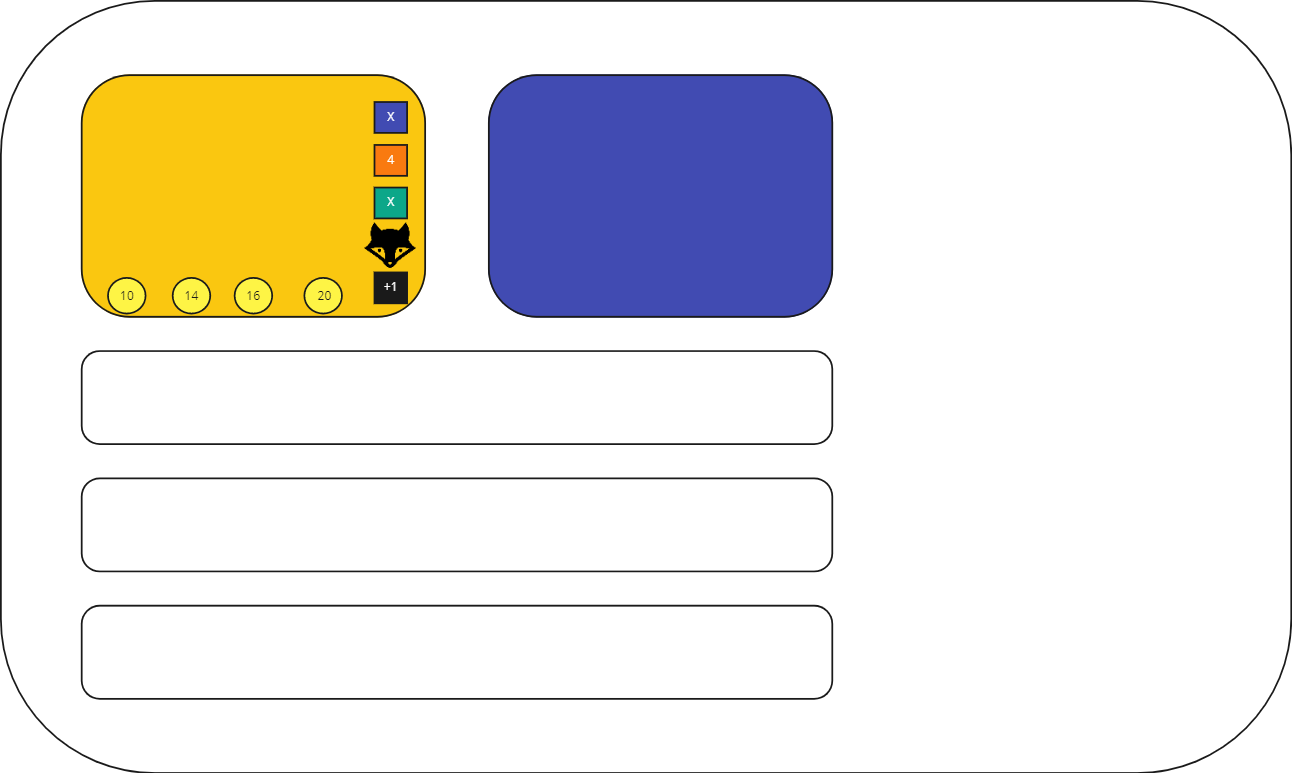
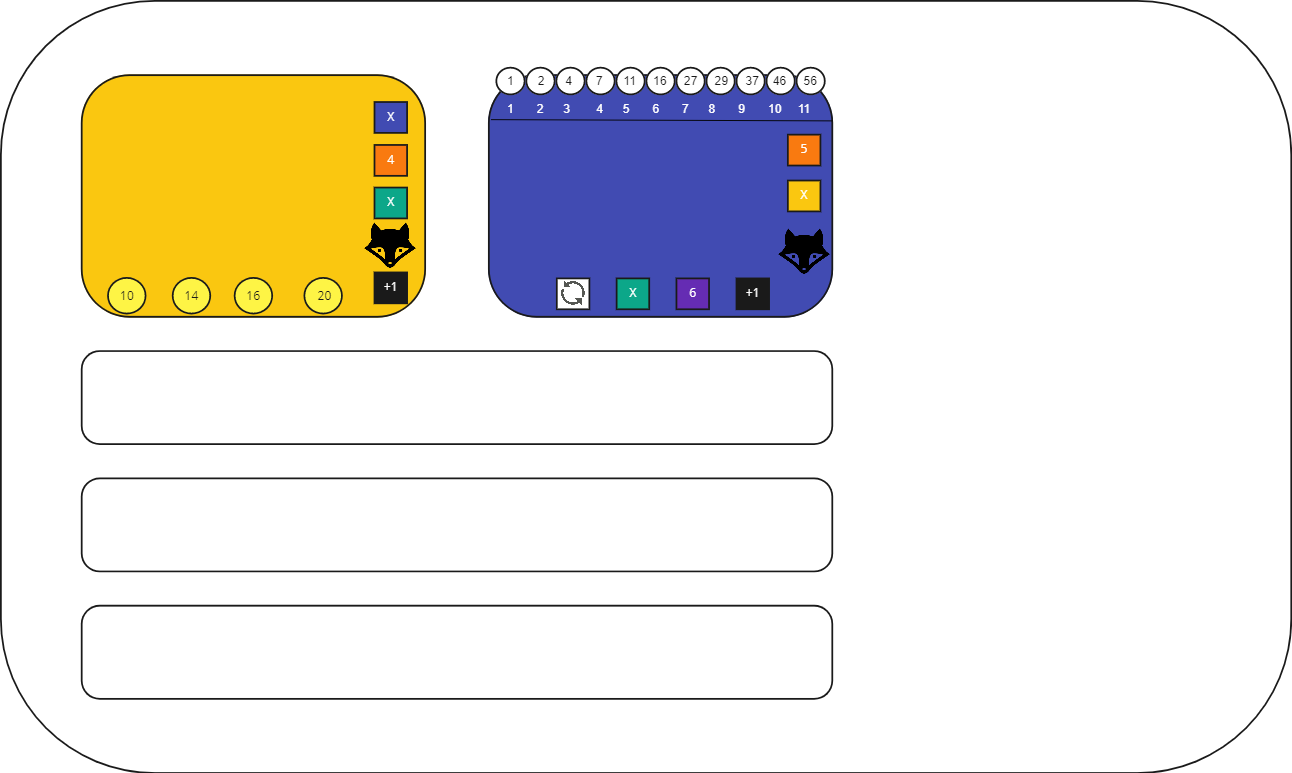
gui/temp

Changed region(s): [[0.4334, 0.1552, 0.6502, 0.4036], [0.3715, 0.0931, 0.6502, 0.1552]]

diff --git a/src/ClientGUI.java b/src/ClientGUI.java
@@ -1,68 +1,144 @@
 import javax.swing.*;
 import java.awt.*;
-import java.awt.event.ActionEvent;
-import java.awt.event.ActionListener;
+import java.awt.Color;
 
 public class ClientGUI {
     JFrame f=new JFrame();//creating instance of JFrame
     JLayeredPane lp = new JLayeredPane();
-    JButton b=new JButton(); //creating instance of JButton
-    JLabel flaga = new JLabel();
-    JButton b2 = new JButton();
-    JButton b3 = new JButton();
-    JButton b4 = new JButton();
-    JButton b5 = new JButton();
-    JButton b6 = new JButton();
-    JButton b7 = new JButton();
-    JLabel x = new JLabel();
+    JButton y00 =new JButton(); //creating instance of JButton
+    JButton y01 = new JButton();
+    JButton y02 = new JButton();
+    JButton y10 = new JButton();
+    JButton y20 = new JButton();
+    JButton y30 = new JButton();
+    JButton y03 = new JButton();
+    JButton y11 = new JButton();
+    JButton y12 = new JButton();
+    JButton y13 = new JButton();
+    JButton y21 = new JButton();
+    JButton y22 = new JButton();
+    JButton y23 = new JButton();
+    JButton y31 = new JButton();
+    JButton y32 = new JButton();
+    JButton y33 = new JButton();
+    JButton b01 = new JButton();
+    JButton b02 = new JButton();
+    JButton b03 = new JButton();
+    JButton b10 = new JButton();
+    JButton b11 = new JButton();
+    JButton b12 = new JButton();
+    JButton b13 = new JButton();
+    JButton b20 = new JButton();
+    JButton b21 = new JButton();
+    JButton b22 = new JButton();
+    JButton b23 = new JButton();
+
     public ClientGUI(){
 
         f.setDefaultCloseOperation(JFrame.EXIT_ON_CLOSE);
         f.setSize(new Dimension(1920,1080));//400 width and 500 height
 
-        b = new JButton("2");
-        b.setBounds(110,115,41, 41);//x-axis, y-axis, width, height
-        lp.add(b, 2);//adding button in JFrame
-        b.setVisible(true);
+        y00 = new JButton("3");
+        y00.setBounds(110,115,41, 41);//x-axis, y-axis, width, height
+        lp.add(y00, 2);//adding button in JFrame
+        y00.setVisible(true);
 
 
-        b2 = new JButton("3");
-        b2.setBounds(170,115,41, 41);//x-axis, y-axis, width, height
-        b2.setOpaque(true);
-        lp.add(b2, 2);//adding button in JFrame
-        b2.setVisible(true);
+        y01 = new JButton("2");
+        y01.setBounds(110,165,41, 41);//x-axis, y-axis, width, height
+        lp.add(y01, 2);//adding button in JFrame
+        y01.setVisible(true);
 
-        b3 = new JButton("3");
-        b3.setBounds(240,115,41, 41);//x-axis, y-axis, width, height
-        lp.add(b3, 2);//adding button in JFrame
-        b3.setVisible(true);
+        y02 = new JButton("1");
+        y02.setBounds(110,215,41, 41);//x-axis, y-axis, width, height
+        lp.add(y02, 2);//adding button in JFrame
+        y02.setVisible(true);
 
-        b4 = new JButton("3");
-        b4.setBounds(310,120,41, 41);//x-axis, y-axis, width, height
-        lp.add(b4, 2);//adding button in JFrame
-        b4.setVisible(true);
+        y10 = new JButton("6");
+        y10.setBounds(175,115,41, 41);//x-axis, y-axis, width, height
+        lp.add(y10, 2);//adding button in JFrame
+        y10.setVisible(true);
 
-        b5 = new JButton("2");
-        b5.setBounds(110,165,41, 41);//x-axis, y-axis, width, height
-        lp.add(b5, 2);//adding button in JFrame
-        b5.setVisible(true);
+        y20 = new JButton("5");
+        y20.setBounds(240,115,41, 41);//x-axis, y-axis, width, height
+        lp.add(y20, 2);//adding button in JFrame
+        y20.setVisible(true);
 
-        b6 = new JButton("2");
-        b6.setBounds(110,215,41, 41);//x-axis, y-axis, width, height
-        lp.add(b6, 2);//adding button in JFrame
-        b6.setVisible(true);
+        y30 = new JButton("X");
+        y30.setBounds(305,115,42, 42);//x-axis, y-axis, width, height
+        y30.setBackground(Color.green);
+        lp.add(y30, 2);//adding button in JFrame
+        y30.setVisible(true);
 
-//        b7 = new JButton("2");
-//        b7.setBounds(110,265,41, 41);//x-axis, y-axis, width, height
-//        lp.add(b7, 2);//adding button in JFrame
-//        b7.setVisible(true);
+        y03 = new JButton("X");
+        y03.setBackground(Color.green);
+        y03.setBounds(110,265,42, 42);//x-axis, y-axis, width, height
+        lp.add(y03, 2);//adding button in JFrame
+        y03.setVisible(true);
 
-        x = new JLabel("X");
-        x.setBounds(110,265,41,41);
-        x.setBackground(java.awt.Color.BLUE);
-        x.setOpaque(true);
-        lp.add(x,2);
-        x.setVisible(true);
+        y11 = new JButton("1");
+        y11.setBounds(175,165,42, 42);//x-axis, y-axis, width, height
+        lp.add(y11, 2);//adding button in JFrame
+        y11.setVisible(true);
+
+        y12 = new JButton("X");
+        y12.setBounds(175,215,42, 42);//x-axis, y-axis, width, height
+        lp.add(y12, 2);//adding button in JFrame
+        y12.setVisible(true);
+        y12.setBackground(Color.green);
+
+        y13 = new JButton("3");
+        y13.setBounds(175,265,42, 42);//x-axis, y-axis, width, height
+        lp.add(y13, 2);//adding button in JFrame
+        y13.setVisible(true);
+
+        y21 = new JButton("X");
+        y21.setBounds(240,165,42, 42);//x-axis, y-axis, width, height
+        lp.add(y21, 2);//adding button in JFrame
+        y21.setBackground(Color.green);
+        y21.setVisible(true);
+
+        y22 = new JButton("2");
+        y22.setBounds(240,215,42, 42);//x-axis, y-axis, width, height
+        lp.add(y22, 2);//adding button in JFrame
+        y22.setVisible(true);
+
+        y23 = new JButton("4");
+        y23.setBounds(240,265,42, 42);//x-axis, y-axis, width, height
+        lp.add(y23, 2);//adding button in JFrame
+        y23.setVisible(true);
+
+        y31 = new JButton("5");
+        y31.setBounds(305,165,42, 42);//x-axis, y-axis, width, height
+        lp.add(y31, 2);//adding button in JFrame
+        y31.setVisible(true);
+
+        y32 = new JButton("4");
+        y32.setBounds(305,215,42, 42);//x-axis, y-axis, width, height
+        lp.add(y32, 2);//adding button in JFrame
+        y32.setVisible(true);
+
+        y33 = new JButton("6");
+        y33.setBounds(305,265,42, 42);//x-axis, y-axis, width, height
+        lp.add(y33, 2);//adding button in JFrame
+        y33.setVisible(true);
+
+        b01 = new JButton("2");
+        b01.setBounds(600,165,42, 42);//x-axis, y-axis, width, height
+        lp.add(b01, 2);//adding button in JFrame
+        b01.setVisible(true);
+
+        b02 = new JButton("3");
+        b02.setBounds(670,165,42, 42);//x-axis, y-axis, width, height
+        lp.add(b02, 2);//adding button in JFrame
+        b02.setVisible(true);
+
+        b03 = new JButton("4");
+        b03.setBounds(740,165,42, 42);//x-axis, y-axis, width, height
+        lp.add(b03, 2);//adding button in JFrame
+        b03.setVisible(true);
+
+
 
 //        b.addActionListener(new ActionListener() {
 //            @Override
@@ -92,7 +168,7 @@ public class ClientGUI {
 
     }
     public void testing(){
-        b.setIcon(new ImageIcon("src/Images/img_1.png"));
+        y00.setIcon(new ImageIcon("src/Images/img_1.png"));
     }
 }
 

diff --git a/src/SowaPlayground.java b/src/SowaPlayground.java
@@ -23,8 +23,8 @@ public class SowaPlayground {
 
 
     public static void main(String[] args) throws InterruptedException {
-        //ClientGUI abc = new ClientGUI();
-        testgui();
+        ClientGUI abc = new ClientGUI();
+        //testgui();
     }
 
 }
